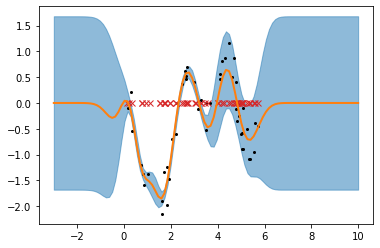
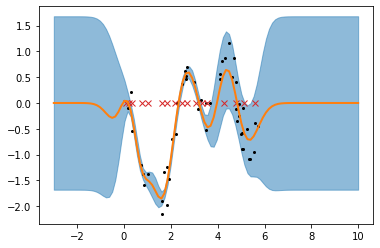
Update.

diff --git a/searchindex.js b/searchindex.js
@@ -1,1 +1,1 @@
-Search.setIndex({docnames:["api/config","api/index","api/kernels","api/means","api/summary/jaxgp.config.Config","api/summary/jaxgp.config.default_jitter","api/summary/jaxgp.kernels.Distance","api/summary/jaxgp.kernels.Kernel","api/summary/jaxgp.kernels.L1Distance","api/summary/jaxgp.kernels.L2Distance","api/summary/jaxgp.kernels.RBF","api/summary/jaxgp.means.Constant","api/summary/jaxgp.means.MeanFunction","api/summary/jaxgp.means.Zero","api/summary/jaxgp.svgp.SVGP","api/svgp","guide","index","install","tutorials","tutorials/sgpr_heteroskedastic","tutorials/sgpr_regression"],envversion:{"sphinx.domains.c":2,"sphinx.domains.changeset":1,"sphinx.domains.citation":1,"sphinx.domains.cpp":4,"sphinx.domains.index":1,"sphinx.domains.javascript":2,"sphinx.domains.math":2,"sphinx.domains.python":3,"sphinx.domains.rst":2,"sphinx.domains.std":2,"sphinx.ext.viewcode":1,sphinx:56},filenames:["api/config.rst","api/index.rst","api/kernels.rst","api/means.rst","api/summary/jaxgp.config.Config.rst","api/summary/jaxgp.config.default_jitter.rst","api/summary/jaxgp.kernels.Distance.rst","api/summary/jaxgp.kernels.Kernel.rst","api/summary/jaxgp.kernels.L1Distance.rst","api/summary/jaxgp.kernels.L2Distance.rst","api/summary/jaxgp.kernels.RBF.rst","api/summary/jaxgp.means.Constant.rst","api/summary/jaxgp.means.MeanFunction.rst","api/summary/jaxgp.means.Zero.rst","api/summary/jaxgp.svgp.SVGP.rst","api/svgp.rst","guide.md","index.md","install.md","tutorials.md","tutorials/sgpr_heteroskedastic.ipynb","tutorials/sgpr_regression.ipynb"],objects:{"":[[1,0,0,"-","jaxgp"]],"jaxgp.config":[[4,1,1,"","Config"],[5,2,1,"","default_jitter"]],"jaxgp.kernels":[[6,1,1,"","Distance"],[7,1,1,"","Kernel"],[8,1,1,"","L1Distance"],[9,1,1,"","L2Distance"],[10,1,1,"","RBF"]],"jaxgp.kernels.Distance":[[6,3,1,"","distance"],[6,3,1,"","squared_distance"]],"jaxgp.kernels.L1Distance":[[8,3,1,"","distance"],[8,3,1,"","squared_distance"]],"jaxgp.kernels.L2Distance":[[9,3,1,"","distance"],[9,3,1,"","squared_distance"]],"jaxgp.means":[[11,1,1,"","Constant"],[12,1,1,"","MeanFunction"],[13,1,1,"","Zero"]],"jaxgp.svgp":[[14,1,1,"","SVGP"]],"jaxgp.svgp.SVGP":[[14,3,1,"","predict_y"]],jaxgp:[[0,0,0,"-","config"],[2,0,0,"module-0","kernels"],[3,0,0,"-","means"],[15,0,0,"-","svgp"]]},objnames:{"0":["py","module","Python module"],"1":["py","class","Python class"],"2":["py","function","Python function"],"3":["py","method","Python method"]},objtypes:{"0":"py:module","1":"py:class","2":"py:function","3":"py:method"},terms:{"0":[4,7,10,20,21],"00":[],"00101566e":[],"00214562e":[],"00326090e":[],"00463228e":[],"00566861e":[],"00810254e":[],"00869801e":[],"00933214e":[],"00941613e":[],"01":20,"01159292e":[],"01244929e":[],"01315698e":[],"01881384e":[],"02":[],"02167942e":[],"02331024055086":[],"02729086e":[],"02997250e":[],"03":[],"03060519e":[],"03088804e":[],"03210601e":[],"03333080e":[],"03558029e":[],"03620741e":[],"03666849e":[],"03844027e":[],"03884828e":[],"04":[],"04116084e":[],"04393280e":[],"044056":[],"04473250e":[],"04605787e":[],"04689596e":[],"04738926e":[],"05278436e":[],"05721686e":[],"05832406e":[],"06":4,"06167677e":[],"06585476e":[],"06804317e":[],"06950361e":[],"07085563e":[],"07428594":20,"07493093e":[],"07738411e":[],"078332575452":[],"08006270e":[],"08231858e":[],"08469118e":[],"09255646e":[],"09289157e":[],"09435056e":[],"09616511e":[],"09842871e":[],"0x1616e1310":20,"0x1669e5400":[],"0x1756f2400":[],"0x2856b5370":10,"0x291bc2640":[],"0x29350d100":[],"0x2935c3a90":[],"0x294730280":[],"0x29547aee0":[],"0x29f4f3370":[],"0x2cd7ad7f0":[],"1":[11,12,13,14,20,21],"10":[20,21],"100":[20,21],"1000":[],"101":20,"10276206e":[],"10919922e":[],"11":[],"113":[],"11382632e":[],"115":[],"11513644e":[],"11586948e":[],"11678761e":[],"12":[],"12094356e":[],"123":[20,21],"13":[],"13227870e":[],"13394265e":[],"13654744e":[],"13673613e":[],"14":[],"14212681e":[],"14244942e":[],"14821696e":[],"15":[],"15218088e":[],"16004950e":[],"16038641e":[],"16341101e":[],"16499902e":[],"16544587e":[],"16577746e":[],"16701447e":[],"16718894e":[],"16982027e":[],"17285834e":[],"18571941e":[],"18790719e":[],"19021663e":[],"19118562e":[],"19384530e":[],"1e":[4,20,21],"2":[20,21],"20":[],"200":[],"20284229e":[],"210":[],"21006114e":[],"21265663e":[],"21553328e":[],"21874364e":[],"22735867e":[],"22764485e":[],"23":[],"23044246e":[],"23310806e":[],"23973634e":[],"24249135e":[],"24760186e":[],"25092753e":[],"25706588e":[],"26090238e":[],"26161443e":[],"27151541e":[],"274225":[],"27479756e":[],"27609070e":[],"27837206e":[],"28586124e":[],"29111779e":[],"29147079e":[],"29324153e":[],"3":[20,21],"30":[],"3157":[],"31802779e":[],"3281":[],"3292":[],"33":20,"33095451e":[],"33517286e":[],"33779356e":[],"33815382e":[],"35239355e":[],"35259159e":[],"36462701e":[],"3666":[],"3703":[],"37108262e":[],"37225937e":[],"37251913e":[],"37425164e":[],"37537000e":[],"3763":[],"38100320e":[],"38388729e":[],"38417262e":[],"38420116e":[],"38449574e":[],"38614209e":[],"38616949e":[],"3863358903836":[],"38643347e":[],"38655522e":[],"38740048e":[],"38814413e":[],"39082976e":[],"39174504e":[],"39514494e":[],"39678082e":[],"39989591e":[],"4":[20,21],"400":[],"40229319e":[],"40290510e":[],"40961309e":[],"41319495e":[],"41485635e":[],"41543118e":[],"41709242e":[],"42":[],"42001874e":[],"42303468e":[],"42316559":[],"42857327e":[],"42996485e":[],"43369806e":[],"44358859e":[],"44983169e":[],"45336487e":[],"45377756e":[],"45797":[],"46170956e":[],"46301690e":[],"46507139e":[],"46873909e":[],"46902017e":[],"47":[],"47456654e":[],"47538570e":[],"47721067e":[],"47893":[],"47904":[],"48":[],"48800988e":[],"49":[],"49162448e":[],"49178283806722":20,"49312281e":[],"49330522":[],"49428298e":[],"49714258e":[],"5":[20,21],"50":[20,21],"500":[],"50263388e":[],"50793538e":[],"51":[],"51170755e":[],"51393963e":[],"51438320e":[],"519":[],"520":[],"521":[],"522":[],"523":[],"52398553e":[],"524":[],"525":[],"52564318e":[],"52688404e":[],"52797918e":[],"52903015e":[],"53246154e":[],"54079943e":[],"54326820e":[],"54914456e":[],"5501":20,"55137771e":[],"55254140e":[],"55350236e":[],"559":[],"560":[],"561":[],"562":[],"563":[],"56493366e":[],"56969781e":[],"57157771e":[],"57260575e":[],"57400855e":[],"58":[],"58290442e":[],"59":[],"59114582e":[],"59229001e":[],"59705465e":[],"6":4,"60":[],"60243109e":[],"60421541e":[],"60469634e":[],"60504852e":[],"60579252e":[],"60680221e":[],"60718796e":[],"61215787e":[],"61269901e":[],"61473407e":[],"61747284e":[],"62032614e":[],"62196505e":[],"62440671":[],"62659225e":[],"62781707e":[],"63457994e":[],"64448065e":[],"64669506e":[],"64788436e":[],"65019860e":[],"65035467e":[],"65184726e":[],"65190185e":[],"65835141e":[],"66921426e":[],"67577506e":[],"67611277e":[],"67676845e":[],"68192551e":[],"68267763e":[],"68854423e":[],"69016457e":[],"69111021e":[],"69556823e":[],"7":[],"70304368e":[],"70524687e":[],"70591482e":[],"70747096e":[],"70808164e":[],"70921629e":[],"71112802e":[],"71330137e":[],"71917007e":[],"72078705e":[],"72488494e":[],"72529487e":[],"72917721e":[],"73086023e":[],"73121746e":[],"73489805e":[],"73733780e":[],"73960682e":[],"74125547e":[],"74228957e":[],"74726879e":[],"75":20,"75159569e":[],"75173557e":[],"75649962e":[],"75872426e":[],"75875741e":[],"76382270e":[],"76753140e":[],"77116128e":[],"77125472e":[],"77247955e":[],"775":[],"77616278e":[],"77639910e":[],"77640711e":[],"785264":20,"78526441489558":20,"79927941e":[],"8":[],"80372762e":[],"80426471e":[],"80606440e":[],"81290020e":[],"81384855e":[],"81497633e":[],"82068186e":[],"82261051e":[],"83000862e":[],"836":[],"83644469e":[],"83984823e":[],"84117009e":[],"84338119e":[],"85467622e":[],"85914196e":[],"860":[],"86428212e":[],"86774801e":[],"86777237e":[],"86867078e":[],"87195147e":[],"872":[],"87655562e":[],"89046991e":[],"89481135e":[],"89608552e":[],"89746098e":[],"89975246e":[],"9":20,"90733433e":[],"91":20,"91372821e":[],"91557432e":[],"91948990e":[],"92":[],"92021094e":[],"92104240e":[],"92942895e":[],"93":[],"93282703e":[],"94101321e":[],"94445843e":[],"94552729e":[],"94661129e":[],"94864676e":[],"95":[],"95399702879318":[],"95399702879332":[],"96":[],"96179187e":[],"96674978103455":[],"96674999808571":[],"96674999810353":[],"966750":[],"966750001365604":[],"97088677e":[],"97419506e":[],"98194673e":[],"98489240e":[],"98566504e":[],"98695114e":[],"98747707e":[],"98887127e":[],"99113253e":[],"99333700e":[],"99356076e":[],"99387890e":[],"99688567e":[],"99743515e":[],"abstract":[6,14],"class":[4,6,7,8,9,10,11,12,13,14],"default":[4,6,8,9],"float":4,"function":[10,11,12,13,14,20],"import":[20,21],"int":[4,7,10,11,12,13,14],"new":1,"public":17,"return":[6,8,9,20,21],"true":[14,20,21],"var":[],A:17,By:[6,8,9],For:17,If:18,In:[],It:17,No:[],That:1,The:[1,8,9,16,18],__getitem__:[],__init__:20,__next__:[],_basedataloaderit:[],_dataset_fetch:[],_dataset_kind:[],_datasetkind:[],_iterabledataset_len_cal:[],_mapdatasetfetch:[],_next_data:[],_next_index:[],_num_yield:[],_param:[7,10,11,12,13],_pin_memori:[],_reset:[],_sampler_it:[],_singleprocessdataloaderit:[],_src:[4,6,8,9,14,20],_util:[],absl:[],achiev:[],active_dim:[7,10,20,21],adam:[],addfilt:[],advantag:[6,8,9],after:[20,21],all:[1,16,17],allclos:[20,21],alpha:[20,21],altern:18,an:6,ani:[],anyth:1,api:[16,17],append:[20,21],apply_upd:[],arang:[20,21],argsort:20,arm:20,assert:[20,21],atol:[20,21],auto_col:[],autoreload:[20,21],avoid:[6,8,9],back:[],background:16,badli:4,base:[4,6,7,8,9,10,11,12,13,14],basi:10,batch:[],batch_shap:4,batch_siz:[],being:1,better:1,bettwen:9,between:[6,8,9],bijector:4,blue:[20,21],bool:[7,10,14],bound:4,build_elbo:[20,21],call:[],can:[6,8,9,18],cd:18,check:17,check_typ:[],checktypesfilt:[],click:16,clone:18,co:14,collect:20,color:[20,21],com:[18,20],comput:[6,8,9,14],compute_qu:[20,21],concaten:20,condit:4,confid:[],config:[1,20,21],constrain_tran:[20,21],context:16,coordaint:9,coordin:[6,8,9],copi:[20,21],cpu:[],current:20,customdataset:[],dat:[20,21],data:[4,20,21],dataload:[],dataset:[20,21],deepcopi:[20,21],def:[20,21],defin:6,deprec:[],describ:1,descript:1,desir:[],detail:[1,16,17],develop:17,devicearrai:[],dict:[7,10,11,12,13,14],directori:18,disp:[20,21],distanc:[8,9,10],divis:[],doc:[],document:[16,17],doe:[],dtype:[],dtype_i:4,dtype_x:4,due:[],e:18,easiest:18,effect:[],either:4,elbo:[20,21],els:[20,21],env:20,epoch:[],error:[],euclidean:9,evalu:20,event:20,exampl:17,exist:16,exp:4,experi:16,experiment:20,f_at_z_cov:[20,21],f_at_z_mean:[20,21],face:1,fall:[],fals:[7,10,14,20,21],fetch:[],figsiz:[],figur:[],file:[],filenam:[20,21],fill_between:[20,21],filter:[],final_param:[20,21],find:1,float32:4,float64:4,follow:[1,16],forward_min_event_ndim:4,found:[],from:[20,21],full:17,full_cov:[14,20,21],full_output_cov:14,fun:[20,21],func:[],gaussian:[17,21],get:[1,17,18],getlogg:[],getmessag:[],gettrainingtestdata:[20,21],git:18,github:[17,18,20],give:16,global:4,good:17,googl:20,gp:14,gpjax:4,gprior:[14,20,21],gpu:[],grad:[],gradient:20,guid:17,hand:16,have:[],head:16,here:1,heteroskedast:19,heteroskedasticgaussian:20,heteroskedasticsgpr:20,http:[18,20],i:[],ident:4,identity_bijector:4,idx:[],immut:4,implement:[6,8,9],improv:4,includ:17,ind:20,index:[20,21],inducing_point:[14,20,21],inducingpoint:14,info:[20,21],init:[],initi:[20,21],initialis:[20,21],input:[],input_dim:[],insert:[20,21],instal:[16,17],int32:4,int64:4,integ:4,interfac:[6,17],introductori:1,inverse_min_event_ndim:4,isn:1,issu:[1,20],item:[],iter:20,jax:[4,6,8,9,14,17,20,21],jax_debug_nan:[20,21],jaxgp:[1,4,6,7,8,9,10,11,12,13,14,16,18,20,21],jaxopt:[20,21],jgp:[20,21],jit:[20,21],jitter:4,jnp:[20,21],k:[5,20,21],kei:[],kernel:[1,6,8,9,10,20,21],kx:[],l1:8,l2:9,l2distanc:10,lab:17,label:[],lack:1,lambda:[20,21],last:[],lax_numpi:[4,6,8,9,14],lbfg:[],learning_r:[],legend:[],lengthscal:[],lib:20,librari:17,lichengk:20,likelihood:[14,20,21],line2d:[],line:[],linewidth:[20,21],linspac:[20,21],listcomp:[],load_ext:[20,21],loadtxt:[20,21],log:[],logger:[],logpdf:[],loss:[],loss_histori:[],loss_sgd:[],loss_val:[],lower:4,lw:[],m0:[],m:18,mac:20,machin:20,mai:[],manhattan:8,markers:[20,21],matplotlib:[20,21],matric:4,max:[],maxval:[],mean:[1,11,12,13,14],mean_funct:[],meanfunct:[11,13],meant:1,member:1,method:[1,4],metric:[6,8,9],mew:[],might:1,min:[],miniforge3:20,minim:20,minval:[],mit:17,model:[20,21],modul:[],more:16,most:18,name:[7,10,11,12,13],ndarrai:[6,8,9,14],necessarili:[],need:[],neg:[20,21],neg_elbo:[20,21],neg_elbo_valu:[],nois:[19,21],none:[7,10,11,12,13,14],nonetyp:[],normal:[],notebook:[],np:[20,21],npoint:[20,21],num_data:[],num_epoch:[],num_induc:[],num_it:[],num_latent_gp:14,num_test:[],numpi:[4,6,8,9,14,20,21],numpyload:[],o:[20,21],object:[4,6,7,10,12,14],onc:1,ones:20,open:1,opt:[],opt_stat:[],optax:[],optim:[20,21],option:[7,10,11,12,13,14,20,21],orang:[20,21],our:17,out:17,output_dim:[11,12,13],outputscal:[],over:[16,20,21],overallx:[20,21],packag:[1,20],page:[1,16],param:[14,20,21],paramet:4,params_contain:[20,21],path:[20,21],pin_memori:[],pipm:18,place:[1,17],pleas:[1,20],plot:[20,21],plot_model:[],plt:[20,21],point:[],polycollect:20,posit:4,positive_bijector:4,positive_minimum:4,possibly_batched_index:[],posterior:[20,21],precis:[],pred_mean:[20,21],pred_var:[20,21],predict:[],predict_f:[20,21],predict_i:14,primari:17,print:[20,21],prngkei:[],problem:20,process:17,project:[],provid:1,pull:1,purpos:17,py39_forg:20,py:20,pyplot:[20,21],python3:20,python:18,pytree_shape_info:[],q_diag:14,q_mu:14,q_sqrt:14,qu_cov:[20,21],qu_mean:[20,21],quadrat:[],radial:10,rais:[],random:[20,21],randomst:[20,21],rang:[20,21],raw_param:[20,21],rbf:[20,21],re:1,readcsvfil:[20,21],recent:18,record:[],red:[20,21],region:[],regress:19,rememb:[20,21],repositori:17,request:1,rerun:[],research:17,reshap:[20,21],result:[6,8,9],rng:[20,21],root:[6,8,9,18],rtol:[20,21],run:[18,20,21],rv:[],s:17,said:1,scale:[],scipi:[],scipyminim:[20,21],see:[17,20],seed:[],self:[],separ:[6,8,9],set:4,sgpr:19,sgpr_heteroskedast:20,shape:[20,21],show:[],shuffl:[],sidebar:17,sigma_sq:20,sign:[20,21],sin:[],sinc:[20,21],site:20,snelson_train_input:[20,21],snelson_train_output:[20,21],softplu:4,soln:[20,21],solver:[20,21],some:[6,8,9,16],sort:[],sourc:[4,5,6,7,8,9,10,11,12,13,14],space:[20,21],spectral:[7,10],sqrt:[20,21],squar:[6,8,9],squared_dist:[6,8,9],squeez:[20,21],stabil:4,stabl:18,start:[1,17],stat:[],stationari:[6,7,8,9,10],stopiter:[],store:4,str:[7,10,11,12,13],subpackag:17,subscript:[],substrat:4,successfulli:20,suffici:1,svgp:1,sy:[20,21],t:1,tab:[20,21],take:[6,8,9],technic:1,tensorflow_prob:4,termin:20,test:20,testindic:[20,21],tf_cpp_min_log_level:[],tfp:4,thi:[1,6,8,9],through:16,tinygp:[6,8,9],torch:[],tpu:[],tqdm:[],traceback:[],train_data:[20,21],train_dataload:[],trainindic:[20,21],training_data:[],transform:[4,20,21],tree_map:[20,21],tri:1,tupl:[7,10],tutori:[1,16,17],two:[6,8,9],type:4,typeerror:[],unconstrain:[20,21],unconstrain_tran:[20,21],under:[6,8,9,17],uniform:[],union:[6,8,9,14],unit:18,unnecessari:[6,8,9],updat:[20,21],us:4,usag:17,user:[17,20],user_provid:20,userwarn:20,util:[],v:[20,21],valu:[4,20],value_and_grad:[],valueerror:[],varianc:14,ve:1,verbos:[],version:18,wai:18,warn:20,we:1,weed:1,well:16,which:16,whiten:14,within:16,written:17,x1:[6,8,9],x2:[6,8,9],x:[20,21],xlabel:[],xlim:[],xm:[],xnew:14,xtest:[20,21],xtrain:[20,21],y:[20,21],ylabel:[],you:[1,18],ytest:[20,21],ytrain:[20,21],z:[20,21],zero:[],zeros_lik:[20,21]},titles:["config package","Public API","kernels package","means package","Config","jaxgp.config.default_jitter","Distance","Kernel","L1Distance","L2Distance","RBF","Constant","MeanFunction","Zero","SVGP","svgp package","User Guide","JaxGP","Installation Guide","Tutorials","SGPR regression with heteroskedastic noise","SGPR Regression"],titleterms:{"public":1,api:1,around:17,author:17,check:20,config:[0,4,5],constant:11,content:17,default_jitt:5,distanc:[2,6],exampl:19,find:17,from:18,guid:[16,18],heteroskedast:20,homoscedast:20,how:17,instal:18,interfac:1,jaxgp:[5,17],kernel:[2,7],l1distanc:8,l2distanc:9,licens:17,mean:3,meanfunct:12,metric:2,nois:20,packag:[0,2,3,15],pip:18,primari:1,rbf:10,regress:[20,21],saniti:20,sgpr:[20,21],sourc:18,subpackag:1,svgp:[14,15],tabl:17,test:18,tutori:19,us:18,usag:19,user:16,wai:17,your:17,zero:13}})
+Search.setIndex({docnames:["api/config","api/index","api/kernels","api/means","api/summary/jaxgp.config.Config","api/summary/jaxgp.config.default_jitter","api/summary/jaxgp.kernels.Distance","api/summary/jaxgp.kernels.Kernel","api/summary/jaxgp.kernels.L1Distance","api/summary/jaxgp.kernels.L2Distance","api/summary/jaxgp.kernels.RBF","api/summary/jaxgp.means.Constant","api/summary/jaxgp.means.MeanFunction","api/summary/jaxgp.means.Zero","api/summary/jaxgp.svgp.SVGP","api/svgp","guide","index","install","tutorials","tutorials/sgpr_heteroskedastic","tutorials/sgpr_regression"],envversion:{"sphinx.domains.c":2,"sphinx.domains.changeset":1,"sphinx.domains.citation":1,"sphinx.domains.cpp":4,"sphinx.domains.index":1,"sphinx.domains.javascript":2,"sphinx.domains.math":2,"sphinx.domains.python":3,"sphinx.domains.rst":2,"sphinx.domains.std":2,"sphinx.ext.viewcode":1,sphinx:56},filenames:["api/config.rst","api/index.rst","api/kernels.rst","api/means.rst","api/summary/jaxgp.config.Config.rst","api/summary/jaxgp.config.default_jitter.rst","api/summary/jaxgp.kernels.Distance.rst","api/summary/jaxgp.kernels.Kernel.rst","api/summary/jaxgp.kernels.L1Distance.rst","api/summary/jaxgp.kernels.L2Distance.rst","api/summary/jaxgp.kernels.RBF.rst","api/summary/jaxgp.means.Constant.rst","api/summary/jaxgp.means.MeanFunction.rst","api/summary/jaxgp.means.Zero.rst","api/summary/jaxgp.svgp.SVGP.rst","api/svgp.rst","guide.md","index.md","install.md","tutorials.md","tutorials/sgpr_heteroskedastic.ipynb","tutorials/sgpr_regression.ipynb"],objects:{"":[[1,0,0,"-","jaxgp"]],"jaxgp.config":[[4,1,1,"","Config"],[5,2,1,"","default_jitter"]],"jaxgp.kernels":[[6,1,1,"","Distance"],[7,1,1,"","Kernel"],[8,1,1,"","L1Distance"],[9,1,1,"","L2Distance"],[10,1,1,"","RBF"]],"jaxgp.kernels.Distance":[[6,3,1,"","distance"],[6,3,1,"","squared_distance"]],"jaxgp.kernels.L1Distance":[[8,3,1,"","distance"],[8,3,1,"","squared_distance"]],"jaxgp.kernels.L2Distance":[[9,3,1,"","distance"],[9,3,1,"","squared_distance"]],"jaxgp.means":[[11,1,1,"","Constant"],[12,1,1,"","MeanFunction"],[13,1,1,"","Zero"]],"jaxgp.svgp":[[14,1,1,"","SVGP"]],"jaxgp.svgp.SVGP":[[14,3,1,"","predict_y"]],jaxgp:[[0,0,0,"-","config"],[2,0,0,"module-0","kernels"],[3,0,0,"-","means"],[15,0,0,"-","svgp"]]},objnames:{"0":["py","module","Python module"],"1":["py","class","Python class"],"2":["py","function","Python function"],"3":["py","method","Python method"]},objtypes:{"0":"py:module","1":"py:class","2":"py:function","3":"py:method"},terms:{"0":[4,7,10,20,21],"00":[],"00101566e":[],"00214562e":[],"00326090e":[],"00463228e":[],"00566861e":[],"00810254e":[],"00869801e":[],"00933214e":[],"00941613e":[],"01":20,"01159292e":[],"01244929e":[],"01315698e":[],"01881384e":[],"02":[],"02167942e":[],"02331024055086":[],"02729086e":[],"02997250e":[],"03":[],"03060519e":[],"03088804e":[],"03210601e":[],"03333080e":[],"03558029e":[],"03620741e":[],"03666849e":[],"03844027e":[],"03884828e":[],"04":[],"04116084e":[],"04393280e":[],"044056":[],"04473250e":[],"04605787e":[],"04689596e":[],"04738926e":[],"05278436e":[],"05721686e":[],"05832406e":[],"06":4,"06167677e":[],"06585476e":[],"06804317e":[],"06950361e":[],"07085563e":[],"07428594":20,"07493093e":[],"07738411e":[],"078332575452":[],"08006270e":[],"08231858e":[],"08469118e":[],"09255646e":[],"09289157e":[],"09435056e":[],"09616511e":[],"09842871e":[],"0x1616e1310":[],"0x1669e5400":[],"0x1756f2400":[],"0x2856b5370":10,"0x28e778070":20,"0x28ec3dfd0":20,"0x291bc2640":[],"0x29350d100":[],"0x2935c3a90":[],"0x294730280":[],"0x29547aee0":[],"0x29f4f3370":[],"0x2cd7ad7f0":[],"1":[11,12,13,14,20,21],"10":[20,21],"100":[20,21],"1000":[],"101":[],"10276206e":[],"10919922e":[],"11":[],"113":20,"11382632e":[],"115":20,"11513644e":[],"11586948e":[],"11678761e":[],"12":[],"12094356e":[],"123":[20,21],"124":20,"13":[],"13227870e":[],"13394265e":[],"136":20,"13654744e":[],"13673613e":[],"14":[],"14212681e":[],"14244942e":[],"14821696e":[],"15":[],"15218088e":[],"16004950e":[],"16038641e":[],"16341101e":[],"16499902e":[],"16544587e":[],"16577746e":[],"16701447e":[],"16718894e":[],"16982027e":[],"17285834e":[],"18571941e":[],"18790719e":[],"19021663e":[],"19118562e":[],"19384530e":[],"1e":[4,20,21],"2":[20,21],"20":[],"200":[],"20284229e":[],"210":[],"21006114e":[],"21265663e":[],"21553328e":[],"21874364e":[],"22735867e":[],"22764485e":[],"23":20,"23044246e":[],"23310806e":[],"23973634e":[],"24249135e":[],"24760186e":[],"25092753e":[],"25706588e":[],"26090238e":[],"26161443e":[],"27151541e":[],"274225":[],"27479756e":[],"27609070e":[],"27837206e":[],"28586124e":[],"29111779e":[],"29147079e":[],"29324153e":[],"3":[20,21],"30":[],"3157":[],"31802779e":[],"3281":[],"3292":[],"33":20,"33095451e":[],"33517286e":[],"33779356e":[],"33815382e":[],"35239355e":[],"35259159e":[],"36462701e":[],"3666":[],"3703":[],"37108262e":[],"37225937e":[],"37251913e":[],"37425164e":[],"37537000e":[],"3763":[],"38100320e":[],"38388729e":[],"38417262e":[],"38420116e":[],"38449574e":[],"38614209e":[],"38616949e":[],"3863358903836":[],"38643347e":[],"38655522e":[],"38740048e":[],"38814413e":[],"39082976e":[],"39174504e":[],"39514494e":[],"39678082e":[],"39989591e":[],"4":[20,21],"400":[],"40229319e":[],"40290510e":[],"40961309e":[],"41319495e":[],"41485635e":[],"41543118e":[],"41709242e":[],"42":20,"42001874e":[],"42303468e":[],"42316559":[],"42857327e":[],"42996485e":[],"43369806e":[],"44358859e":[],"44983169e":[],"45336487e":[],"45377756e":[],"45797":[],"46170956e":[],"46301690e":[],"46507139e":[],"46873909e":[],"46902017e":[],"47":[],"47456654e":[],"47538570e":[],"47721067e":[],"47893":[],"47904":[],"48":[],"48800988e":[],"49":[],"49162448e":[],"49178283806722":[],"49312281e":[],"49330522":[],"49428298e":[],"49679933742982":20,"49714258e":[],"5":[20,21],"50":[20,21],"500":[],"50263388e":[],"50793538e":[],"51":[],"51170755e":[],"51393963e":[],"51438320e":[],"519":[],"520":[],"521":[],"522":[],"523":[],"52398553e":[],"524":[],"525":[],"52564318e":[],"52688404e":[],"52797918e":[],"52903015e":[],"53246154e":[],"54079943e":[],"54326820e":[],"54914456e":[],"5501":20,"55137771e":[],"55254140e":[],"55350236e":[],"559":[],"560":[],"561":[],"562":[],"563":[],"56493366e":[],"56969781e":[],"57157771e":[],"57260575e":[],"57400855e":[],"58":[],"58290442e":[],"59":[],"59114582e":[],"59229001e":[],"59705465e":[],"6":4,"60":[],"60243109e":[],"60421541e":[],"60469634e":[],"60504852e":[],"60579252e":[],"60680221e":[],"60718796e":[],"61215787e":[],"61269901e":[],"61473407e":[],"61747284e":[],"62032614e":[],"62196505e":[],"62440671":[],"62659225e":[],"62781707e":[],"63457994e":[],"64448065e":[],"64669506e":[],"64788436e":[],"65019860e":[],"65035467e":[],"65184726e":[],"65190185e":[],"65835141e":[],"66921426e":[],"67577506e":[],"67611277e":[],"67676845e":[],"68192551e":[],"68267763e":[],"68854423e":[],"69016457e":[],"69111021e":[],"69556823e":[],"7":[],"70304368e":[],"70524687e":[],"70591482e":[],"70747096e":[],"70808164e":[],"70921629e":[],"71112802e":[],"71330137e":[],"71917007e":[],"72078705e":[],"72488494e":[],"72529487e":[],"72917721e":[],"73086023e":[],"73121746e":[],"73489805e":[],"73733780e":[],"73960682e":[],"74125547e":[],"74228957e":[],"74726879e":[],"75":20,"75159569e":[],"75173557e":[],"75649962e":[],"75872426e":[],"75875741e":[],"76382270e":[],"76753140e":[],"77116128e":[],"77125472e":[],"77247955e":[],"775":[],"77616278e":[],"77639910e":[],"77640711e":[],"785264":[],"78526441489558":[],"788562":20,"78856245441767":20,"79927941e":[],"8":[],"80372762e":[],"80426471e":[],"80606440e":[],"81290020e":[],"81384855e":[],"81497633e":[],"82068186e":[],"82261051e":[],"83000862e":[],"836":[],"83644469e":[],"83984823e":[],"84117009e":[],"84338119e":[],"85467622e":[],"85914196e":[],"860":[],"86428212e":[],"86774801e":[],"86777237e":[],"86867078e":[],"87195147e":[],"872":[],"87655562e":[],"89046991e":[],"89481135e":[],"89608552e":[],"89746098e":[],"89975246e":[],"9":20,"90733433e":[],"91":20,"91372821e":[],"91557432e":[],"91948990e":[],"92":[],"92021094e":[],"92104240e":[],"92942895e":[],"93":[],"93282703e":[],"94101321e":[],"94445843e":[],"94552729e":[],"94661129e":[],"94864676e":[],"95":[],"95399702879318":[],"95399702879332":20,"96":[],"96179187e":[],"96674978103455":20,"96674999808571":[],"96674999810353":[],"966750":20,"966750001365604":[],"97088677e":[],"97419506e":[],"98194673e":[],"98489240e":[],"98566504e":[],"98695114e":[],"98747707e":[],"98887127e":[],"99113253e":[],"99333700e":[],"99356076e":[],"99387890e":[],"99688567e":[],"99743515e":[],"abstract":[6,14],"class":[4,6,7,8,9,10,11,12,13,14],"default":[4,6,8,9],"float":4,"function":[10,11,12,13,14,20],"import":[20,21],"int":[4,7,10,11,12,13,14],"new":1,"public":17,"return":[6,8,9,20,21],"true":[14,20,21],"var":[],A:17,By:[6,8,9],For:17,If:18,In:[],It:17,No:20,That:1,The:[1,8,9,16,18],__getitem__:[],__init__:20,__next__:[],_basedataloaderit:[],_dataset_fetch:[],_dataset_kind:[],_datasetkind:[],_iterabledataset_len_cal:[],_mapdatasetfetch:[],_next_data:[],_next_index:[],_num_yield:[],_param:[7,10,11,12,13],_pin_memori:[],_reset:[],_sampler_it:[],_singleprocessdataloaderit:[],_src:[4,6,8,9,14,20],_util:[],absl:20,achiev:[],active_dim:[7,10,20,21],adam:[],addfilt:[],advantag:[6,8,9],after:[20,21],all:[1,16,17],allclos:[20,21],alpha:[20,21],altern:18,an:6,ani:[],anyth:1,api:[16,17],append:[20,21],apply_upd:[],arang:[20,21],argsort:20,arm:20,assert:[20,21],atol:[20,21],auto_col:[],autoreload:[20,21],avoid:[6,8,9],back:20,background:16,badli:4,base:[4,6,7,8,9,10,11,12,13,14],basi:10,batch:[],batch_shap:4,batch_siz:[],being:1,better:1,bettwen:9,between:[6,8,9],bijector:4,blue:[20,21],bool:[7,10,14],bound:4,build_elbo:[20,21],call:[],can:[6,8,9,18],cd:18,check:17,check_typ:[],checktypesfilt:[],click:16,clone:18,co:14,collect:20,color:[20,21],com:[18,20],comput:[6,8,9,14],compute_qu:[20,21],concaten:20,condit:4,confid:[],config:[1,20,21],constrain_tran:[20,21],context:16,coordaint:9,coordin:[6,8,9],copi:[20,21],cpu:20,current:20,customdataset:[],dat:[20,21],data:[4,20,21],dataload:[],dataset:[20,21],deepcopi:[20,21],def:[20,21],defin:6,deprec:[],describ:1,descript:1,desir:[],detail:[1,16,17],develop:17,devicearrai:[],dict:[7,10,11,12,13,14],directori:18,disp:[20,21],distanc:[8,9,10],divis:[],doc:[],document:[16,17],doe:[],dtype:[],dtype_i:4,dtype_x:4,due:[],e:18,easiest:18,effect:[],either:4,elbo:[20,21],els:[20,21],env:20,epoch:[],error:[],euclidean:9,evalu:20,event:20,exampl:17,exist:16,exp:4,experi:16,experiment:20,f_at_z_cov:[20,21],f_at_z_mean:[20,21],face:1,fall:20,fals:[7,10,14,20,21],fetch:[],figsiz:[],figur:[],file:[],filenam:[20,21],fill_between:[20,21],filter:[],final_param:[20,21],find:1,float32:4,float64:4,follow:[1,16],forward_min_event_ndim:4,found:20,from:[20,21],full:17,full_cov:[14,20,21],full_output_cov:14,fun:[20,21],func:[],gaussian:[17,21],get:[1,17,18],getlogg:[],getmessag:[],gettrainingtestdata:[20,21],git:18,github:[17,18,20],give:16,global:4,good:17,googl:20,gp:14,gpjax:4,gprior:[14,20,21],gpu:20,grad:[],gradient:20,guid:17,hand:16,have:[],head:16,here:1,heteroskedast:19,heteroskedasticgaussian:20,heteroskedasticsgpr:20,http:[18,20],i:[],ident:4,identity_bijector:4,idx:[],immut:4,implement:[6,8,9],improv:4,includ:17,ind:20,index:[20,21],inducing_point:[14,20,21],inducingpoint:14,info:[20,21],init:[],initi:[20,21],initialis:[20,21],input:[],input_dim:[],insert:[20,21],instal:[16,17],int32:4,int64:4,integ:4,interfac:[6,17],introductori:1,inverse_min_event_ndim:4,isn:1,issu:[1,20],item:[],iter:20,jax:[4,6,8,9,14,17,20,21],jax_debug_nan:[20,21],jaxgp:[1,4,6,7,8,9,10,11,12,13,14,16,18,20,21],jaxopt:[20,21],jgp:[20,21],jit:[20,21],jitter:4,jnp:[20,21],k:[5,20,21],kei:[],kernel:[1,6,8,9,10,20,21],kx:[],l1:8,l2:9,l2distanc:10,lab:17,label:[],lack:1,lambda:[20,21],last:[],lax_numpi:[4,6,8,9,14],lbfg:[],learning_r:[],legend:[],lengthscal:20,lib:20,librari:17,lichengk:20,likelihood:[14,20,21],line2d:[],line:[],linewidth:[20,21],linspac:[20,21],listcomp:[],load_ext:[20,21],loadtxt:[20,21],log:[],logger:[],logpdf:[],loss:[],loss_histori:[],loss_sgd:[],loss_val:[],lower:4,lw:[],m0:[],m:18,mac:20,machin:20,mai:[],manhattan:8,markers:[20,21],matplotlib:[20,21],matric:4,max:[],maxval:[],mean:[1,11,12,13,14],mean_funct:20,meanfunct:[11,13],meant:1,member:1,method:[1,4],metric:[6,8,9],mew:[],might:1,min:[],miniforge3:20,minim:20,minval:[],mit:17,model:[20,21],modul:[],more:[16,20],most:18,name:[7,10,11,12,13],ndarrai:[6,8,9,14],necessarili:[],need:[],neg:[20,21],neg_elbo:[20,21],neg_elbo_valu:[],nois:[19,21],none:[7,10,11,12,13,14],nonetyp:[],normal:[],notebook:[],np:[20,21],npoint:[20,21],num_data:[],num_epoch:[],num_induc:[],num_it:[],num_latent_gp:14,num_test:[],numpi:[4,6,8,9,14,20,21],numpyload:[],o:[20,21],object:[4,6,7,10,12,14],onc:1,ones:20,open:1,opt:[],opt_stat:[],optax:[],optim:[20,21],option:[7,10,11,12,13,14,20,21],orang:[20,21],our:17,out:17,output_dim:[11,12,13],outputscal:20,over:[16,20,21],overallx:[20,21],packag:[1,20],page:[1,16],param:[14,20,21],paramet:4,params_contain:[20,21],path:[20,21],pin_memori:[],pipm:18,place:[1,17],pleas:[1,20],plot:[20,21],plot_model:[],plt:[20,21],point:[],polycollect:20,posit:4,positive_bijector:4,positive_minimum:4,possibly_batched_index:[],posterior:[20,21],precis:[],pred_mean:[20,21],pred_var:[20,21],predict:[],predict_f:[20,21],predict_i:14,primari:17,print:[20,21],prngkei:[],problem:20,process:17,project:[],provid:1,pull:1,purpos:17,py39_forg:20,py:20,pyplot:[20,21],python3:20,python:18,pytree_shape_info:[],q_diag:14,q_mu:14,q_sqrt:14,qu_cov:[20,21],qu_mean:[20,21],quadrat:[],radial:10,rais:[],random:[20,21],randomst:[20,21],rang:[20,21],raw_param:[20,21],rbf:[20,21],re:1,readcsvfil:[20,21],recent:18,record:[],red:[20,21],region:[],regress:19,rememb:[20,21],repositori:17,request:1,rerun:20,research:17,reshap:[20,21],result:[6,8,9],rng:[20,21],root:[6,8,9,18],rtol:[20,21],run:[18,20,21],rv:[],s:17,said:1,scale:[],scipi:[],scipyminim:[20,21],see:[17,20],seed:[],self:[],separ:[6,8,9],set:[4,20],sgpr:19,sgpr_heteroskedast:20,shape:[20,21],show:[],shuffl:[],sidebar:17,sigma_sq:20,sign:[20,21],sin:[],sinc:[20,21],site:20,snelson_train_input:[20,21],snelson_train_output:[20,21],softplu:4,soln:[20,21],solver:[20,21],some:[6,8,9,16],sort:[],sourc:[4,5,6,7,8,9,10,11,12,13,14],space:[20,21],spectral:[7,10],sqrt:[20,21],squar:[6,8,9],squared_dist:[6,8,9],squeez:[20,21],stabil:4,stabl:18,start:[1,17],stat:[],stationari:[6,7,8,9,10],stopiter:[],store:4,str:[7,10,11,12,13],subpackag:17,subscript:[],substrat:4,successfulli:20,suffici:1,svgp:1,sy:[20,21],t:1,tab:[20,21],take:[6,8,9],technic:1,tensorflow_prob:4,termin:20,test:20,testindic:[20,21],tf_cpp_min_log_level:20,tfp:4,thi:[1,6,8,9],through:16,tinygp:[6,8,9],torch:[],tpu:20,tqdm:[],traceback:[],train_data:[20,21],train_dataload:[],trainindic:[20,21],training_data:[],transform:[4,20,21],tree_map:[20,21],tri:1,tupl:[7,10],tutori:[1,16,17],two:[6,8,9],type:4,typeerror:[],unconstrain:[20,21],unconstrain_tran:[20,21],under:[6,8,9,17],uniform:[],union:[6,8,9,14],unit:18,unnecessari:[6,8,9],updat:[20,21],us:4,usag:17,user:[17,20],user_provid:20,userwarn:20,util:[],v:[20,21],valu:[4,20],value_and_grad:[],valueerror:[],varianc:14,ve:1,verbos:[],version:18,wai:18,warn:20,we:1,weed:1,well:16,which:16,whiten:14,within:16,written:17,x1:[6,8,9],x2:[6,8,9],x:[20,21],xlabel:[],xlim:[],xm:[],xnew:14,xtest:[20,21],xtrain:[20,21],y:[20,21],ylabel:[],you:[1,18],ytest:[20,21],ytrain:[20,21],z:[20,21],zero:[],zeros_lik:[20,21]},titles:["config package","Public API","kernels package","means package","Config","jaxgp.config.default_jitter","Distance","Kernel","L1Distance","L2Distance","RBF","Constant","MeanFunction","Zero","SVGP","svgp package","User Guide","JaxGP","Installation Guide","Tutorials","SGPR regression with heteroskedastic noise","SGPR Regression"],titleterms:{"public":1,api:1,around:17,author:17,check:20,config:[0,4,5],constant:11,content:17,default_jitt:5,distanc:[2,6],exampl:19,find:17,from:18,guid:[16,18],heteroskedast:20,homoscedast:20,how:17,instal:18,interfac:1,jaxgp:[5,17],kernel:[2,7],l1distanc:8,l2distanc:9,licens:17,mean:3,meanfunct:12,metric:2,nois:20,packag:[0,2,3,15],pip:18,primari:1,rbf:10,regress:[20,21],saniti:20,sgpr:[20,21],sourc:18,subpackag:1,svgp:[14,15],tabl:17,test:18,tutori:19,us:18,usag:19,user:16,wai:17,your:17,zero:13}})

diff --git a/tutorials/sgpr_heteroskedastic.html b/tutorials/sgpr_heteroskedastic.html
@@ -474,7 +474,11 @@
 <span class="n">inds</span> <span class="o">=</span> <span class="n">jnp</span><span class="o">.</span><span class="n">argsort</span><span class="p">(</span><span class="n">X</span><span class="p">[:,</span><span class="mi">0</span><span class="p">])</span>
 <span class="n">X</span> <span class="o">=</span> <span class="n">X</span><span class="p">[</span><span class="n">inds</span><span class="p">]</span>
 <span class="n">y</span> <span class="o">=</span> <span class="n">y</span><span class="p">[</span><span class="n">inds</span><span class="p">]</span>
-<span class="n">Z</span> <span class="o">=</span> <span class="n">X</span><span class="o">.</span><span class="n">copy</span><span class="p">()</span>
+</pre></div>
+</div>
+</div>
+<div class="cell_output docutils container">
+<div class="output stderr highlight-myst-ansi notranslate"><div class="highlight"><pre><span></span>WARNING:absl:No GPU/TPU found, falling back to CPU. (Set TF_CPP_MIN_LOG_LEVEL=0 and rerun for more info.)
 </pre></div>
 </div>
 </div>
@@ -483,7 +487,8 @@
 <h2>Sanity check with SGPR with homoscedastic noise<a class="headerlink" href="#sanity-check-with-sgpr-with-homoscedastic-noise" title="Permalink to this headline">¶</a></h2>
 <div class="cell docutils container">
 <div class="cell_input docutils container">
-<div class="highlight-ipython3 notranslate"><div class="highlight"><pre><span></span><span class="n">train_data</span> <span class="o">=</span> <span class="n">jgp</span><span class="o">.</span><span class="n">Dataset</span><span class="p">(</span><span class="n">X</span><span class="o">=</span><span class="n">X</span><span class="p">,</span> <span class="n">Y</span><span class="o">=</span><span class="n">y</span><span class="p">)</span>
+<div class="highlight-ipython3 notranslate"><div class="highlight"><pre><span></span><span class="n">Z</span> <span class="o">=</span> <span class="n">X</span><span class="o">.</span><span class="n">copy</span><span class="p">()</span>
+<span class="n">train_data</span> <span class="o">=</span> <span class="n">jgp</span><span class="o">.</span><span class="n">Dataset</span><span class="p">(</span><span class="n">X</span><span class="o">=</span><span class="n">X</span><span class="p">,</span> <span class="n">Y</span><span class="o">=</span><span class="n">y</span><span class="p">)</span>
 <span class="n">kernel</span> <span class="o">=</span> <span class="n">jgp</span><span class="o">.</span><span class="n">kernels</span><span class="o">.</span><span class="n">RBF</span><span class="p">(</span><span class="n">active_dims</span><span class="o">=</span><span class="n">jnp</span><span class="o">.</span><span class="n">arange</span><span class="p">(</span><span class="n">X</span><span class="o">.</span><span class="n">shape</span><span class="p">[</span><span class="o">-</span><span class="mi">1</span><span class="p">]))</span>
 <span class="n">model</span> <span class="o">=</span> <span class="n">HeteroskedasticSGPR</span><span class="p">(</span>
     <span class="n">train_data</span><span class="o">=</span><span class="n">train_data</span><span class="p">,</span>
@@ -507,6 +512,11 @@
 </pre></div>
 </div>
 </div>
+<div class="cell_output docutils container">
+<div class="output stream highlight-myst-ansi notranslate"><div class="highlight"><pre><span></span>{&#39;inducing_points&#39;: (50, 1), &#39;kernel&#39;: {&#39;lengthscale&#39;: (1,), &#39;outputscale&#39;: (1,)}, &#39;likelihood&#39;: {}, &#39;mean_function&#39;: {}}
+</pre></div>
+</div>
+</div>
 </div>
 <div class="cell docutils container">
 <div class="cell_input docutils container">
@@ -520,6 +530,17 @@
 <span class="nb">print</span><span class="p">(</span><span class="s2">&quot;After optimization negative elbo = &quot;</span><span class="p">,</span> <span class="n">neg_elbo</span><span class="p">(</span><span class="n">soln</span><span class="o">.</span><span class="n">params</span><span class="p">))</span>
 
 <span class="n">posterior</span> <span class="o">=</span> <span class="n">model</span><span class="o">.</span><span class="n">posterior</span><span class="p">()</span>
+</pre></div>
+</div>
+</div>
+<div class="cell_output docutils container">
+<div class="output stream highlight-myst-ansi notranslate"><div class="highlight"><pre><span></span>Initial negative elbo =  42.95399702879332
+Optimization terminated successfully.
+         Current function value: 23.966750
+         Iterations: 113
+         Function evaluations: 115
+         Gradient evaluations: 115
+After optimization negative elbo =  23.96674978103455
 </pre></div>
 </div>
 </div>
@@ -543,6 +564,12 @@
 </pre></div>
 </div>
 </div>
+<div class="cell_output docutils container">
+<div class="output text_plain highlight-myst-ansi notranslate"><div class="highlight"><pre><span></span>&lt;matplotlib.collections.PolyCollection at 0x28e778070&gt;
+</pre></div>
+</div>
+<img alt="../_images/sgpr_heteroskedastic_8_1.png" src="../_images/sgpr_heteroskedastic_8_1.png" />
+</div>
 </div>
 <div class="cell docutils container">
 <div class="cell_input docutils container">
@@ -552,7 +579,7 @@
 <span class="p">)</span>
 <span class="k">assert</span> <span class="n">jnp</span><span class="o">.</span><span class="n">allclose</span><span class="p">(</span><span class="n">qu_mean</span><span class="p">,</span> <span class="n">f_at_Z_mean</span><span class="p">,</span> <span class="n">rtol</span><span class="o">=</span><span class="mf">1e-5</span><span class="p">,</span> <span class="n">atol</span><span class="o">=</span><span class="mf">1e-4</span><span class="p">)</span>
 <span class="k">assert</span> <span class="n">jnp</span><span class="o">.</span><span class="n">allclose</span><span class="p">(</span>
-    <span class="n">qu_cov</span><span class="o">.</span><span class="n">reshape</span><span class="p">(</span><span class="mi">1</span><span class="p">,</span> <span class="mi">50</span><span class="p">,</span> <span class="mi">50</span><span class="p">),</span> <span class="n">f_at_Z_cov</span><span class="p">,</span> <span class="n">rtol</span><span class="o">=</span><span class="mf">1e-5</span><span class="p">,</span> <span class="n">atol</span><span class="o">=</span><span class="mf">1e-5</span>
+    <span class="n">qu_cov</span><span class="o">.</span><span class="n">reshape</span><span class="p">(</span><span class="mi">1</span><span class="p">,</span> <span class="n">Z</span><span class="o">.</span><span class="n">shape</span><span class="p">[</span><span class="mi">0</span><span class="p">],</span> <span class="n">Z</span><span class="o">.</span><span class="n">shape</span><span class="p">[</span><span class="mi">0</span><span class="p">]),</span> <span class="n">f_at_Z_cov</span><span class="p">,</span> <span class="n">rtol</span><span class="o">=</span><span class="mf">1e-5</span><span class="p">,</span> <span class="n">atol</span><span class="o">=</span><span class="mf">1e-5</span>
 <span class="p">)</span>
 </pre></div>
 </div>
@@ -563,13 +590,14 @@
 <h2>Heteroskedastic noise<a class="headerlink" href="#heteroskedastic-noise" title="Permalink to this headline">¶</a></h2>
 <div class="cell docutils container">
 <div class="cell_input docutils container">
-<div class="highlight-ipython3 notranslate"><div class="highlight"><pre><span></span><span class="n">train_data</span> <span class="o">=</span> <span class="n">jgp</span><span class="o">.</span><span class="n">Dataset</span><span class="p">(</span><span class="n">X</span><span class="o">=</span><span class="n">X</span><span class="p">,</span> <span class="n">Y</span><span class="o">=</span><span class="n">y</span><span class="p">)</span>
+<div class="highlight-ipython3 notranslate"><div class="highlight"><pre><span></span><span class="n">Z</span> <span class="o">=</span> <span class="n">X</span><span class="o">.</span><span class="n">copy</span><span class="p">()[::</span><span class="mi">3</span><span class="p">]</span>
+<span class="n">train_data</span> <span class="o">=</span> <span class="n">jgp</span><span class="o">.</span><span class="n">Dataset</span><span class="p">(</span><span class="n">X</span><span class="o">=</span><span class="n">X</span><span class="p">,</span> <span class="n">Y</span><span class="o">=</span><span class="n">y</span><span class="p">)</span>
 <span class="n">kernel</span> <span class="o">=</span> <span class="n">jgp</span><span class="o">.</span><span class="n">kernels</span><span class="o">.</span><span class="n">RBF</span><span class="p">(</span><span class="n">active_dims</span><span class="o">=</span><span class="n">jnp</span><span class="o">.</span><span class="n">arange</span><span class="p">(</span><span class="n">X</span><span class="o">.</span><span class="n">shape</span><span class="p">[</span><span class="o">-</span><span class="mi">1</span><span class="p">]))</span>
 <span class="n">model</span> <span class="o">=</span> <span class="n">HeteroskedasticSGPR</span><span class="p">(</span>
     <span class="n">train_data</span><span class="o">=</span><span class="n">train_data</span><span class="p">,</span>
     <span class="n">gprior</span><span class="o">=</span><span class="n">jgp</span><span class="o">.</span><span class="n">GPrior</span><span class="p">(</span><span class="n">kernel</span><span class="o">=</span><span class="n">kernel</span><span class="p">),</span>
     <span class="n">likelihood</span><span class="o">=</span><span class="n">jgp</span><span class="o">.</span><span class="n">likelihoods</span><span class="o">.</span><span class="n">HeteroskedasticGaussian</span><span class="p">(</span><span class="n">user_provided</span><span class="o">=</span><span class="kc">True</span><span class="p">),</span>
-    <span class="c1"># sigma_sq=jnp.linspace(0.1, 10., X.shape[0]),</span>
+    <span class="c1"># sigma_sq=jnp.linspace(0.01, 10., X.shape[0]),</span>
     <span class="n">sigma_sq</span><span class="o">=</span><span class="n">jnp</span><span class="o">.</span><span class="n">concatenate</span><span class="p">([</span><span class="mf">0.01</span> <span class="o">*</span> <span class="n">jnp</span><span class="o">.</span><span class="n">ones</span><span class="p">(</span><span class="n">X</span><span class="o">.</span><span class="n">shape</span><span class="p">[</span><span class="mi">0</span><span class="p">]</span> <span class="o">//</span> <span class="mi">2</span><span class="p">),</span> <span class="mf">1.</span> <span class="o">*</span> <span class="n">jnp</span><span class="o">.</span><span class="n">ones</span><span class="p">(</span><span class="n">X</span><span class="o">.</span><span class="n">shape</span><span class="p">[</span><span class="mi">0</span><span class="p">]</span> <span class="o">-</span><span class="n">X</span><span class="o">.</span><span class="n">shape</span><span class="p">[</span><span class="mi">0</span><span class="p">]</span> <span class="o">//</span> <span class="mi">2</span><span class="p">)]),</span>
     <span class="n">inducing_points</span><span class="o">=</span><span class="n">Z</span><span class="p">,</span>
 <span class="p">)</span>
@@ -589,13 +617,13 @@
 </div>
 </div>
 <div class="cell_output docutils container">
-<div class="output stream highlight-myst-ansi notranslate"><div class="highlight"><pre><span></span>Initial negative elbo =  91.49178283806722
+<div class="output stream highlight-myst-ansi notranslate"><div class="highlight"><pre><span></span>Initial negative elbo =  91.49679933742982
 Optimization terminated successfully.
-         Current function value: 75.785264
-         Iterations: 100
-         Function evaluations: 101
-         Gradient evaluations: 101
-After optimization negative elbo =  75.78526441489558
+         Current function value: 75.788562
+         Iterations: 124
+         Function evaluations: 136
+         Gradient evaluations: 136
+After optimization negative elbo =  75.78856245441767
 </pre></div>
 </div>
 </div>
@@ -620,7 +648,7 @@ After optimization negative elbo =  75.78526441489558
 </div>
 </div>
 <div class="cell_output docutils container">
-<div class="output text_plain highlight-myst-ansi notranslate"><div class="highlight"><pre><span></span>&lt;matplotlib.collections.PolyCollection at 0x1616e1310&gt;
+<div class="output text_plain highlight-myst-ansi notranslate"><div class="highlight"><pre><span></span>&lt;matplotlib.collections.PolyCollection at 0x28ec3dfd0&gt;
 </pre></div>
 </div>
 <img alt="../_images/sgpr_heteroskedastic_12_1.png" src="../_images/sgpr_heteroskedastic_12_1.png" />
